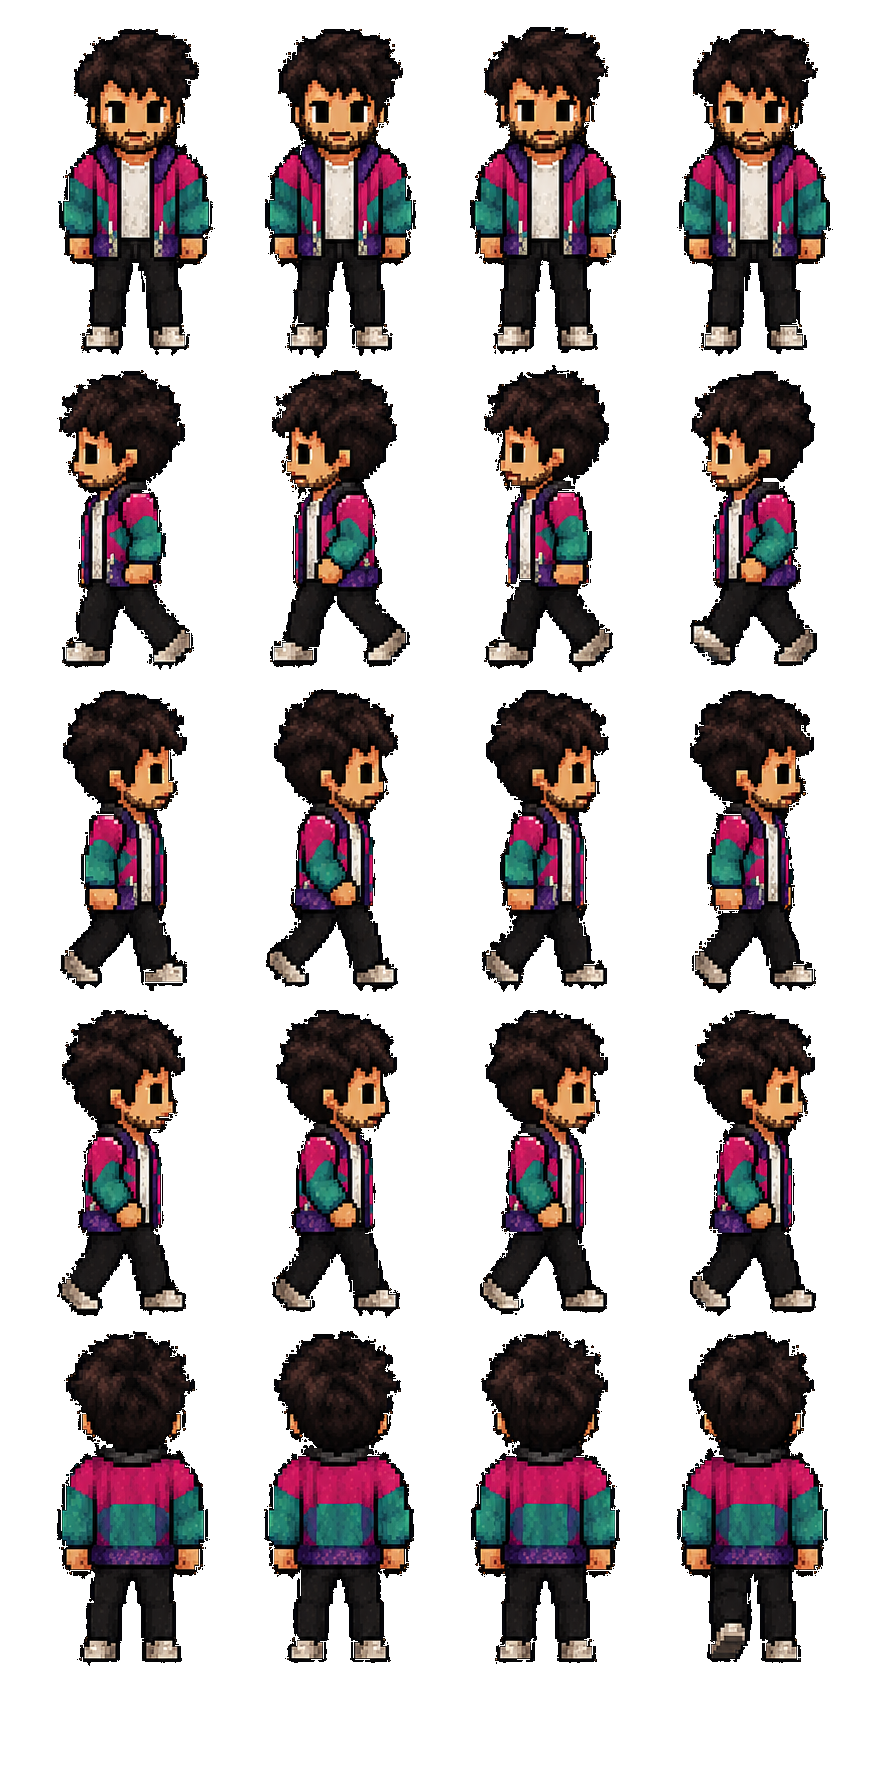
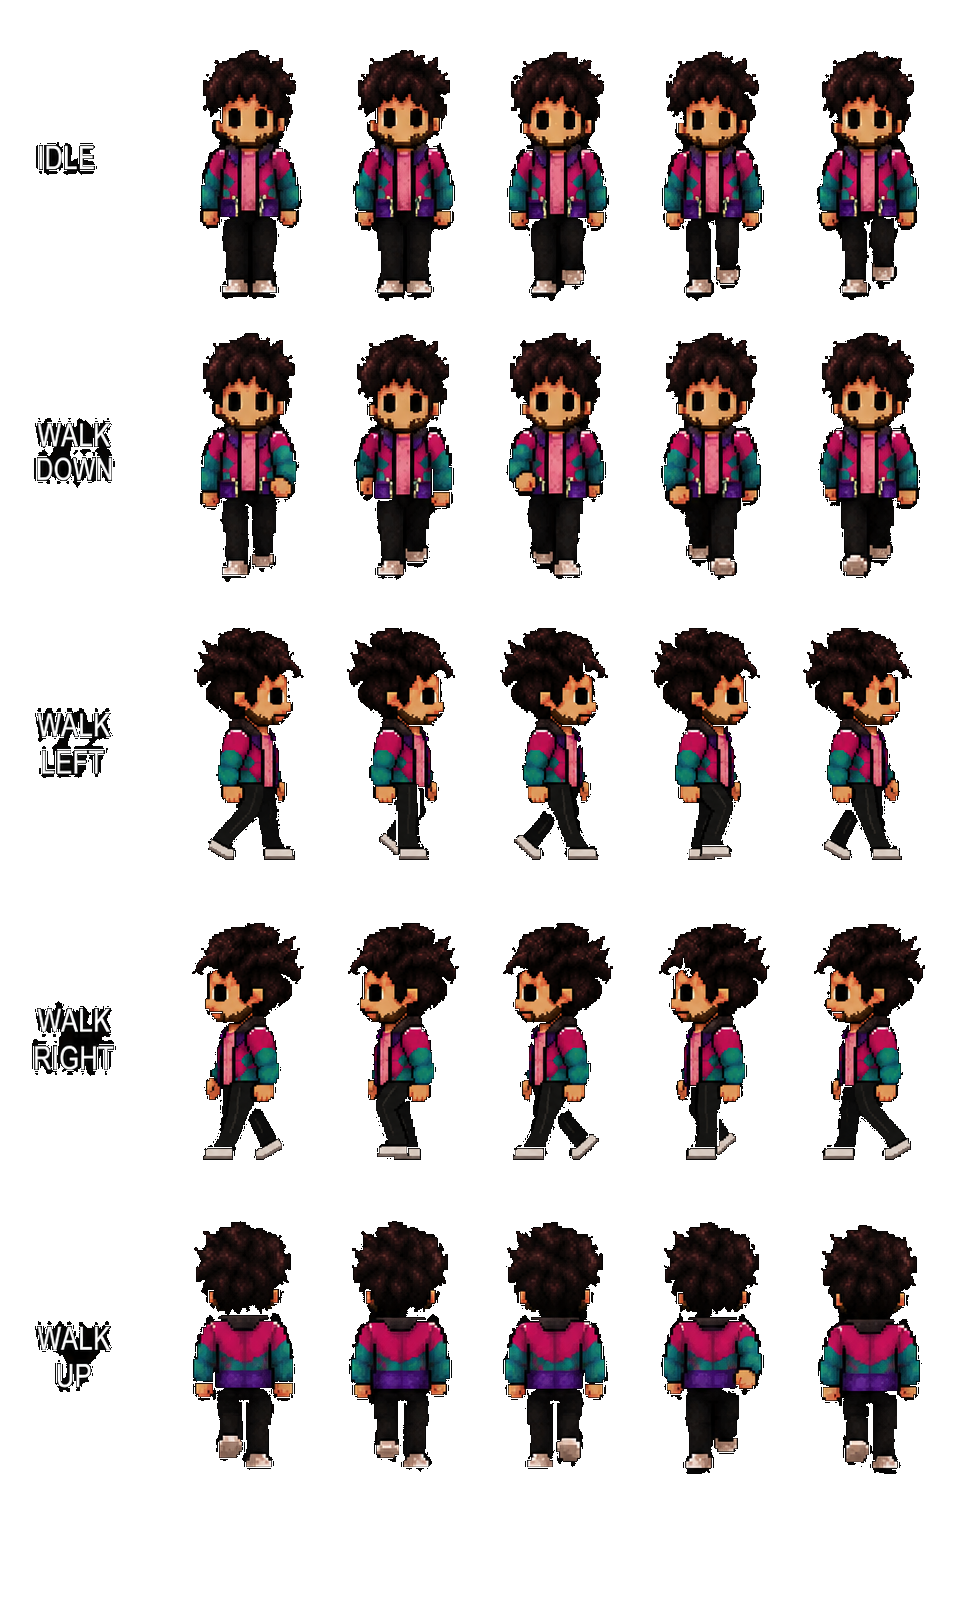
Add audio cues for 'ed' character and update related assets; remove unused enemy textures

diff --git a/index.html b/index.html
@@ -424,6 +424,9 @@
       const noelVoice = new Audio("sounds/voice.m4a");
       const thunderAudio = new Audio("sounds/thunder.mp4");
       const windAudio = new Audio("sounds/wind-blizz.mp3");
+      const edLookingAudio = new Audio("sounds/ed/looking.mp4");
+      const edSightedAudio = new Audio("sounds/ed/sighted.mp4");
+      const edGameOverAudio = new Audio("sounds/ed/game over.mp4");
       let spriteReady = false;
       let edSpriteReady = false;
       let joeSpriteReady = false;
@@ -436,7 +439,7 @@
       let level3BackgroundReady = false;
       let bookcaseReady = false;
       spriteImage.src = "assets/niall-enemy.png";
-      edSpriteImage.src = "assets/ed-enemy-v3.png";
+      edSpriteImage.src = "assets/ed-enemy.png";
       joeSpriteImage.src = "joe/joe.png";
       protagonistImage.src = "assets/prawn-protagonist-sheet.png";
       humanProtagonistImage.src = "assets/noel-human-transparent.png";
@@ -452,6 +455,13 @@
       windAudio.preload = "auto";
       windAudio.loop = true;
       windAudio.volume = 0.48;
+      edLookingAudio.preload = "auto";
+      edLookingAudio.volume = 0.7;
+      edSightedAudio.preload = "auto";
+      edSightedAudio.volume = 0.85;
+      edGameOverAudio.preload = "auto";
+      edGameOverAudio.volume = 0.85;
+      let edLookingCooldown = 18;
       spriteImage.addEventListener("load", () => {
         spriteReady = true;
       });
@@ -910,6 +920,7 @@
         routeKeys = level.keys.map((item) => ({ ...item, found: false }));
         alertFlash = 0;
         updateHud();
+        if (levelIndex === 1) edLookingCooldown = 0;
       }
 
       function startLevel() {
@@ -1208,6 +1219,10 @@
         }
 
         if (guard.suspicion > chaseThreshold) {
+          if (guard.mode !== "chase" && guard.sprite === "ed") {
+            edSightedAudio.currentTime = 0;
+            edSightedAudio.play().catch(() => {});
+          }
           guard.mode = "chase";
           alertFlash = 0.12;
         } else if (guard.mode === "chase" && guard.suspicion <= 0 && guard.seenAt) {
@@ -1282,6 +1297,8 @@
       }
 
       function loseLevel() {
+        edGameOverAudio.currentTime = 0;
+        edGameOverAudio.play().catch(() => {});
         state = "caught";
         caughtStart = performance.now();
       }
@@ -1311,6 +1328,18 @@
         updatePlayer(dt);
         guards.forEach((guard) => updateGuard(guard, dt));
         alertFlash = Math.max(0, alertFlash - dt);
+
+        if (levelIndex === 1) {
+          edLookingCooldown -= dt;
+          if (edLookingCooldown <= 0) {
+            const edGuard = guards.find(g => g.sprite === "ed" && g.mode === "patrol");
+            if (edGuard) {
+              edLookingAudio.currentTime = 0;
+              edLookingAudio.play().catch(() => {});
+            }
+            edLookingCooldown = 14 + Math.random() * 18;
+          }
+        }
         updateHud();
       }
 
